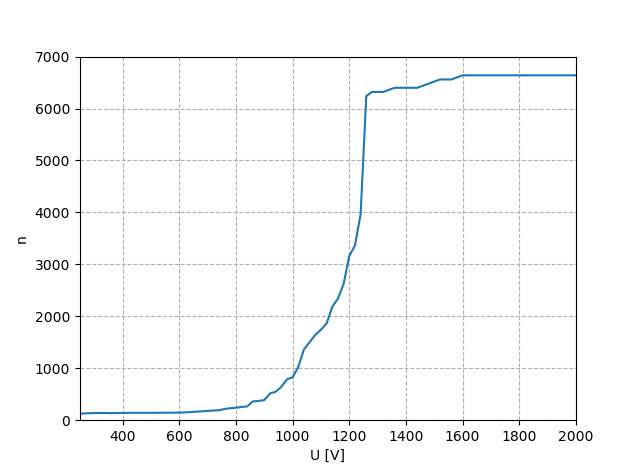
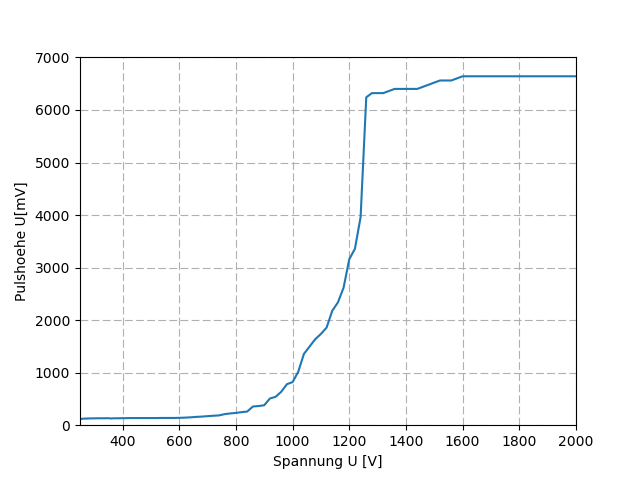
Bilder T7 neu

diff --git a/T07/Auswertung/GM/PropAmPuls.py b/T07/Auswertung/GM/PropAmPuls.py
@@ -61,8 +61,8 @@ if 1:#plot
     a,sa,b,sb,chi,rest = p.lineare_regression(xplateau,yplateau,sy[plateau:plateauend])
     plt.figure(2)
     ax = plt.subplot(111)
-    ax.set_xlabel("U [V]")
-    ax.set_ylabel("n")
+    ax.set_xlabel("Spannung U [V]")
+    ax.set_ylabel("Pulshoehe U[mV]")
     ax.grid(linestyle='--')
     ax.axis([250,2000,0,7000])
     plt.plot(x,y)
@@ -73,8 +73,8 @@ if 1:#logplot
     a,sa,b,sb,chi,rest = p.lineare_regression(xplateau,np.log(yplateau),slogy[plateau:plateauend])
     plt.figure(1)
     ax = plt.subplot(111)
-    ax.set_xlabel("U [V]")
-    ax.set_ylabel("log(U)")
+    ax.set_xlabel("Spannung U [V]")
+    ax.set_ylabel("Pulshoehe log(U[mV])")
     ax.axis([250,2000,4,9])
     ax.grid(linestyle='--')
     plt.plot(x,logy)

diff --git a/T07/Auswertung/GM/PropCPuls.py b/T07/Auswertung/GM/PropCPuls.py
@@ -69,8 +69,8 @@ if 1:#plot
     a,sa,b,sb,chi,rest = p.lineare_regression(xplateau,yplateau,sy[plateau:plateauend])
     plt.figure(2)
     ax = plt.subplot(111)
-    ax.set_xlabel("U [V]")
-    ax.set_ylabel("n")
+    ax.set_xlabel("Spannung U [V]")
+    ax.set_ylabel("Pulshoehe U[mV]")
     ax.grid(linestyle='--')
     ax.axis([250,2000,0,7000])
     plt.plot(x,y)
@@ -82,8 +82,8 @@ if 1:#logplot
     print chi/len(xplateau)
     plt.figure(1)
     ax = plt.subplot(111)
-    ax.set_xlabel("U [V]")
-    ax.set_ylabel("log(n)")
+    ax.set_xlabel("Spannung U [V]")
+    ax.set_ylabel("Pulshoehe log(U[mV])")
     ax.axis([250,2000,1,9])
     ax.grid(linestyle='--')
     plt.plot(x,logy)
